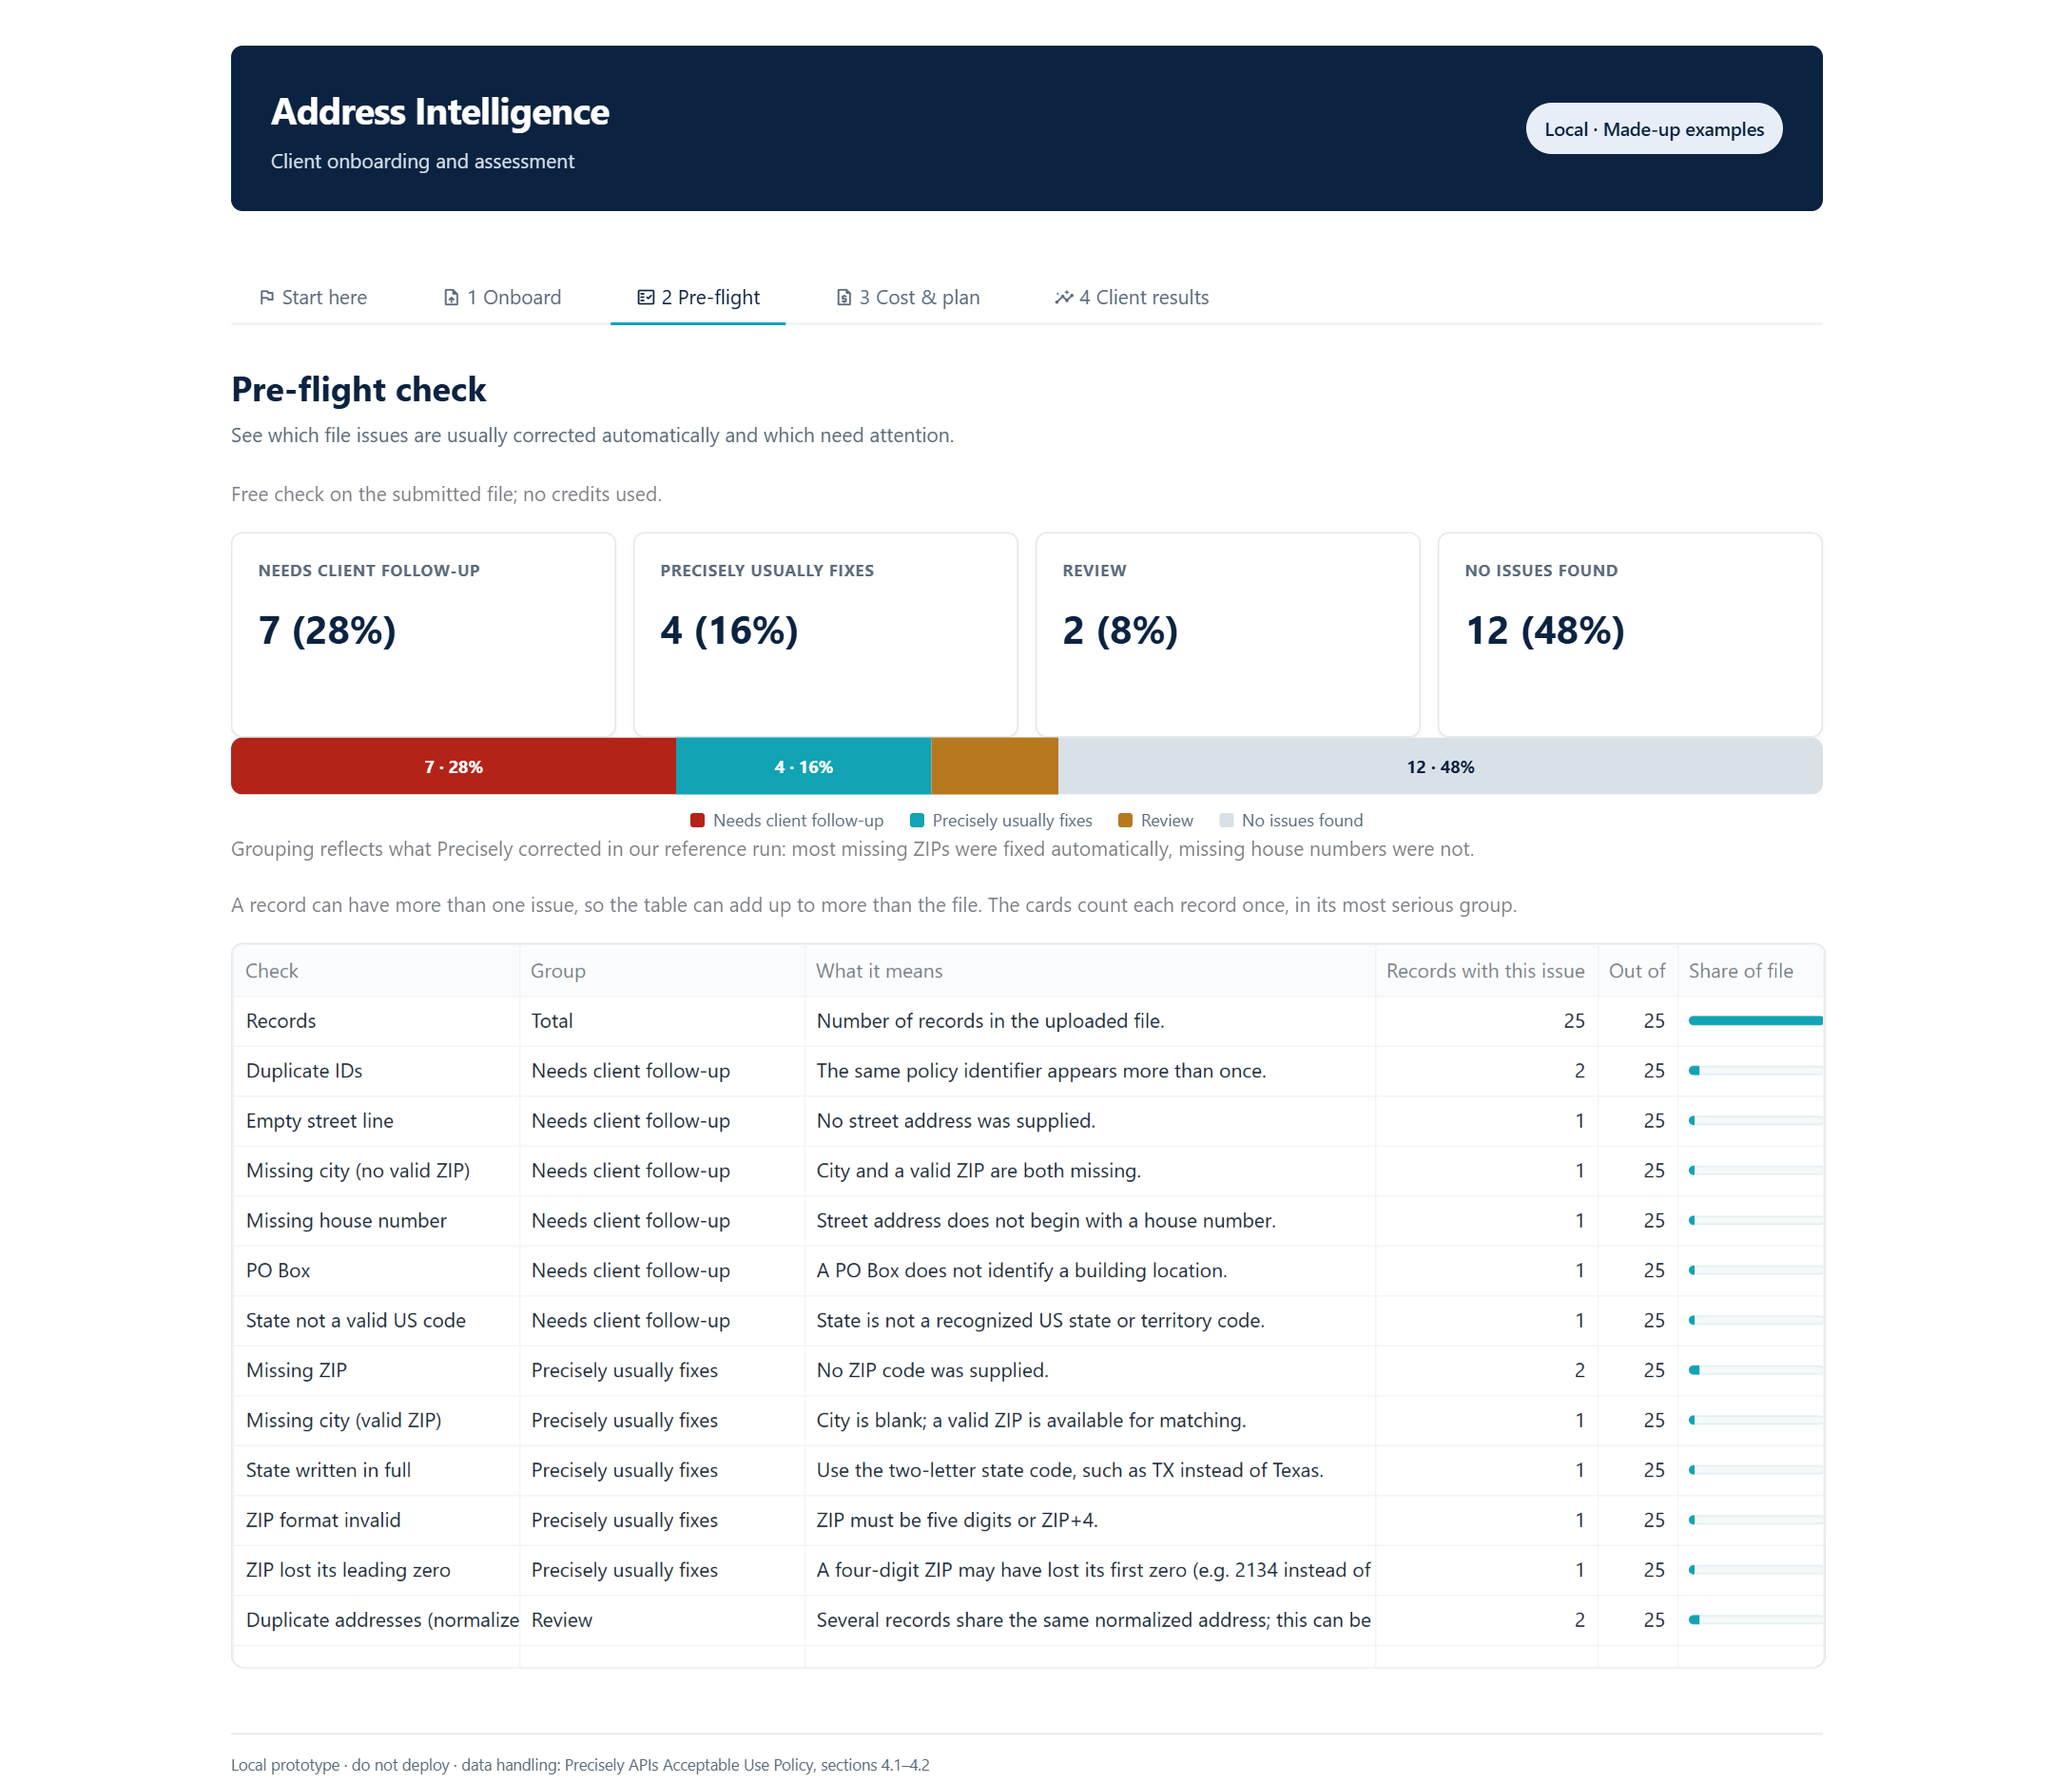
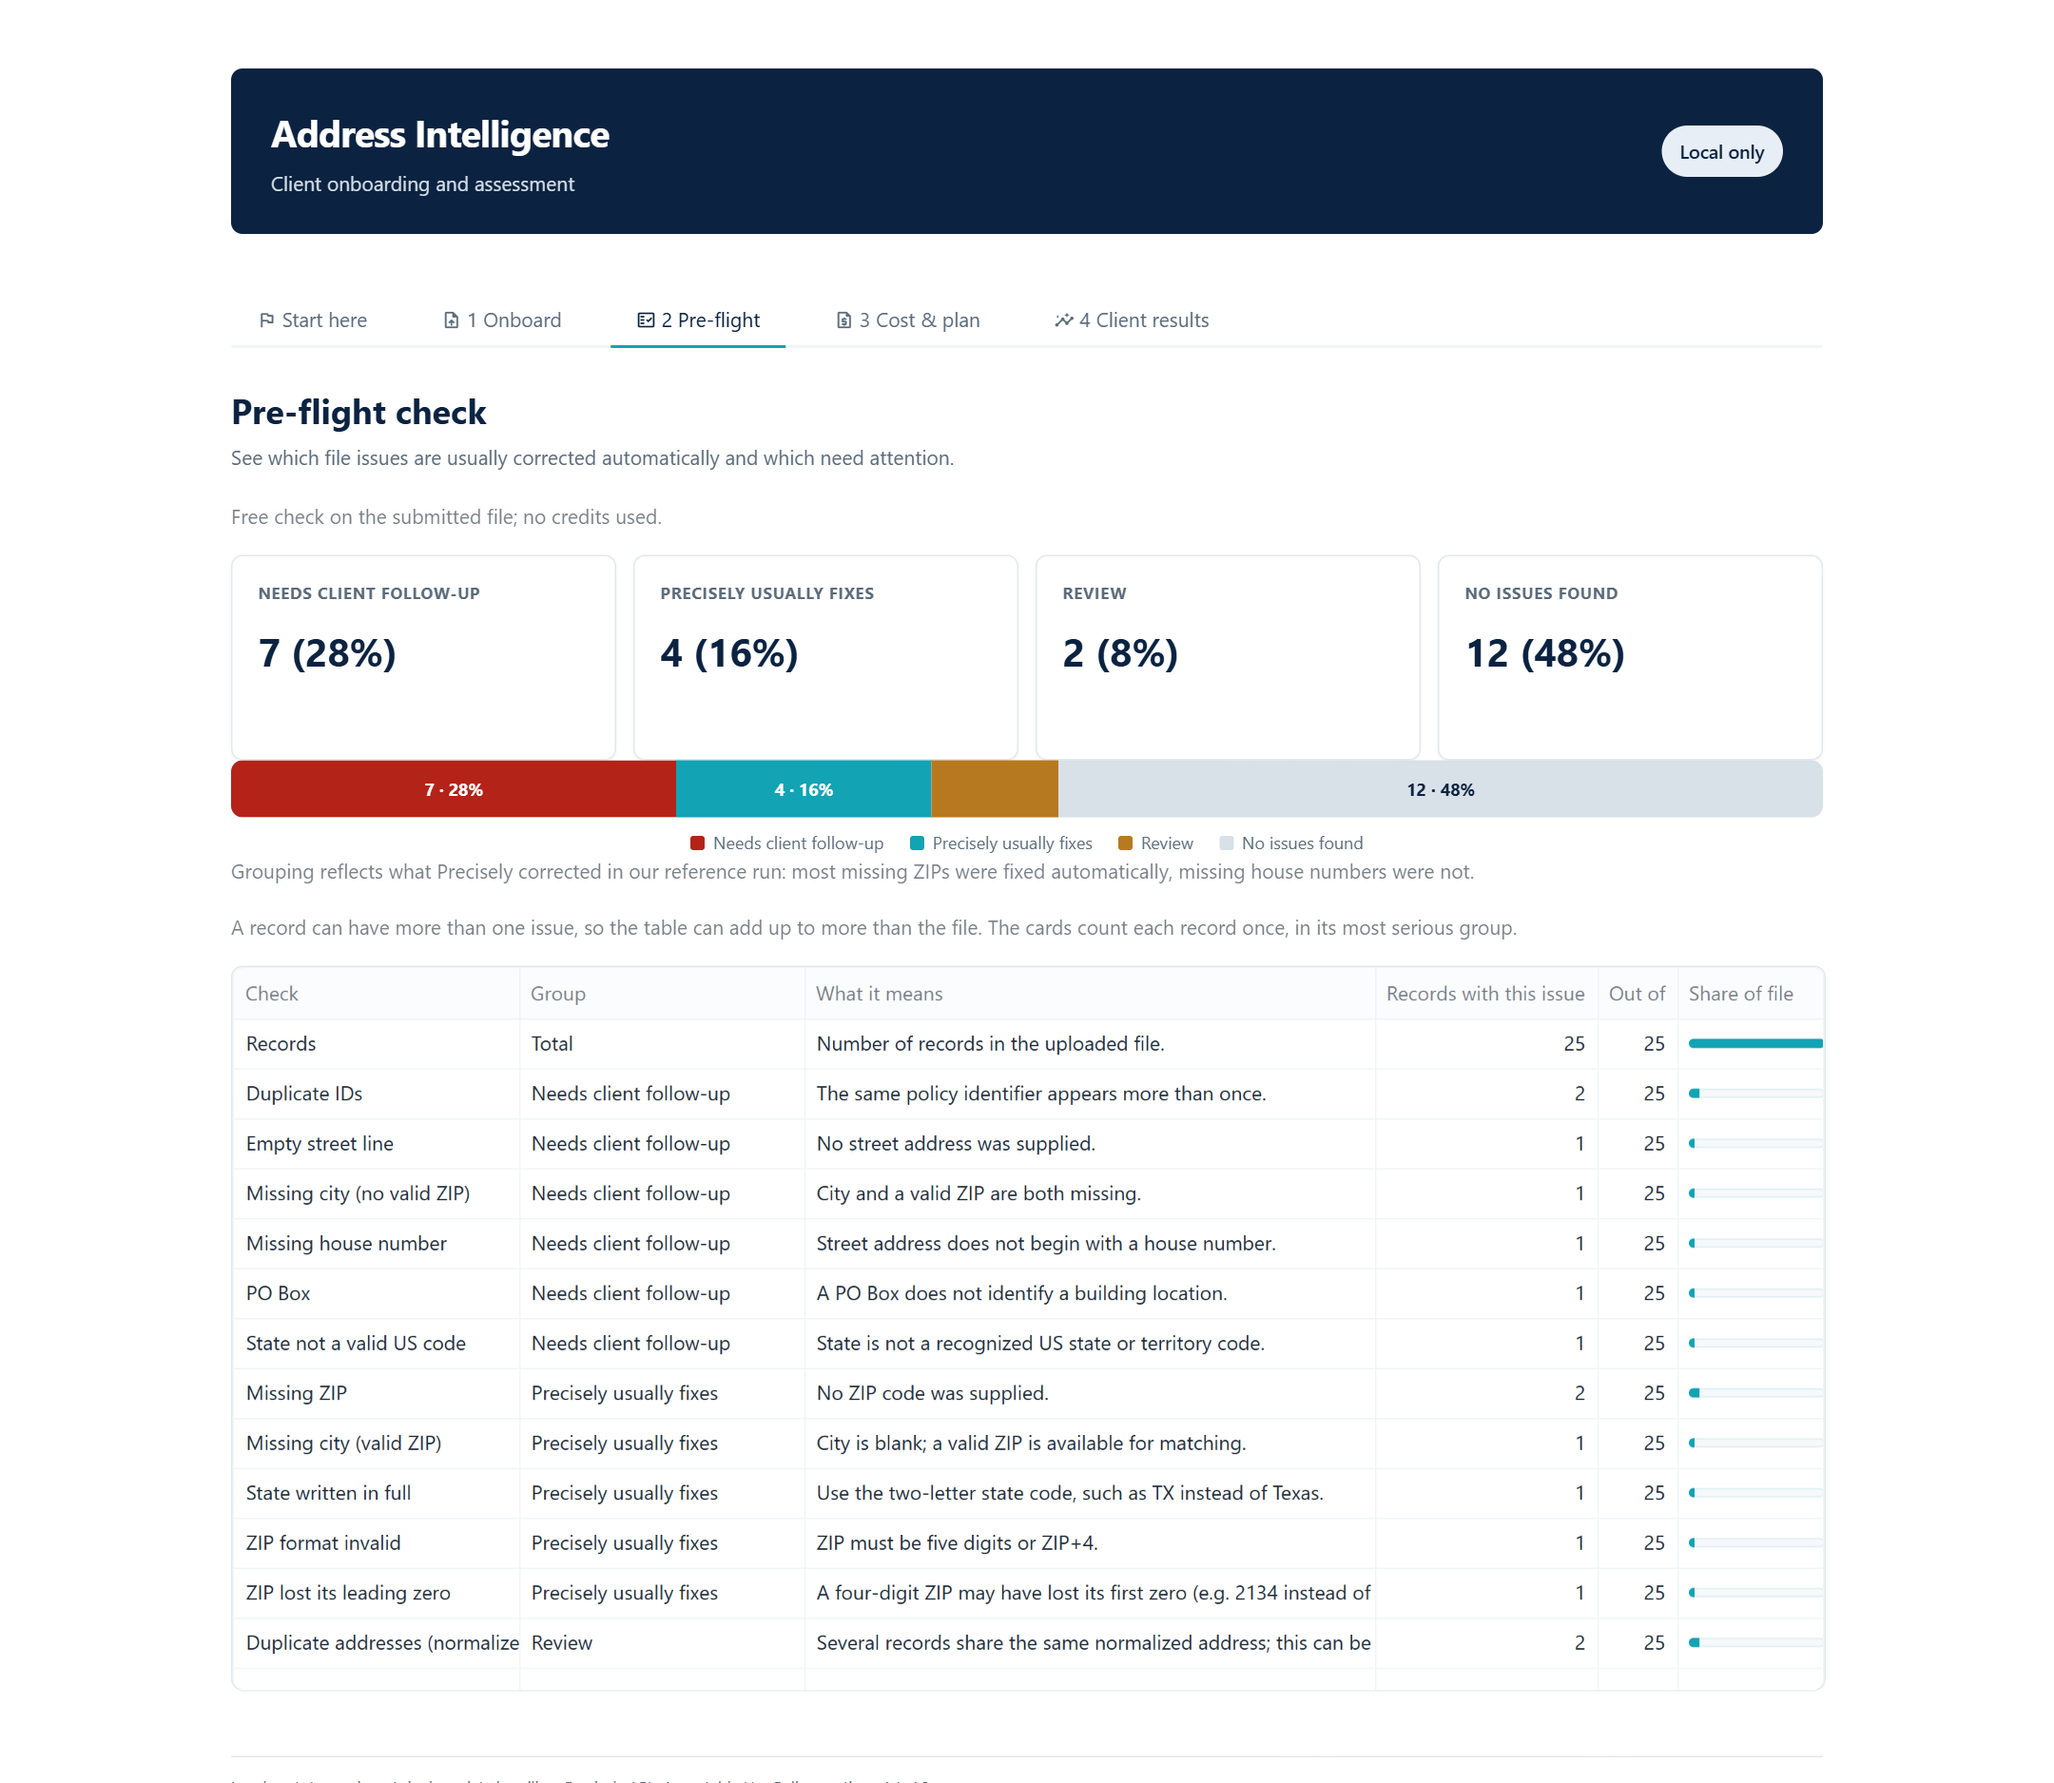
fix: keep the Client results tab when switching data mode; header shows Local only

diff --git a/app/ui.py b/app/ui.py
@@ -86,14 +86,11 @@ def real_mode_compliance_css(real_mode: bool) -> str:
 def apply_styles(*, real_mode: bool = False) -> None:
     """Apply the shared visual system, adding stricter table controls in real mode."""
     st.markdown(_GLOBAL_CSS, unsafe_allow_html=True)
-    compliance_css = real_mode_compliance_css(real_mode)
-    if compliance_css:
-        st.markdown(compliance_css, unsafe_allow_html=True)
+    compliance_css = real_mode_compliance_css(real_mode) or "<style></style>"
+    st.markdown(compliance_css, unsafe_allow_html=True)
 
 
-def render_header(*, real_mode: bool) -> None:
-    mode = "Local · Real results" if real_mode else "Local · Made-up examples"
-    mode_class = "real" if real_mode else "sample"
+def render_header() -> None:
     st.markdown(
         f"""
         <div class="ai-header">
@@ -101,7 +98,7 @@ def render_header(*, real_mode: bool) -> None:
             <div class="ai-brand">Address Intelligence</div>
             <div class="ai-subtitle">Client onboarding and assessment</div>
           </div>
-          <div class="ai-mode ai-mode-{mode_class}">{escape(mode)}</div>
+          <div class="ai-mode">{escape("Local only")}</div>
         </div>
         """,
         unsafe_allow_html=True,
@@ -118,10 +115,8 @@ def render_header(*, real_mode: bool) -> None:
         .ai-subtitle {{ margin-top:4px; color:#D5DFEA; font-size:14px; }}
         .ai-mode {{
           border-radius:999px; padding:8px 13px; font-weight:600; font-size:13px;
-          white-space:nowrap; color:{COLORS["navy"]};
+          white-space:nowrap; color:{COLORS["navy"]}; background:#E7EEF5;
         }}
-        .ai-mode-sample {{ background:#E7EEF5; }}
-        .ai-mode-real {{ background:#FFF0CC; color:#67420C; }}
         .ai-tab-title {{ margin:8px 0 4px; font-size:24px; color:{COLORS["navy"]}; font-weight:700; }}
         .ai-purpose {{ margin:0 0 18px; color:{COLORS["muted"]}; font-size:14px; }}
         .ai-journey-grid {{ display:grid; grid-template-columns:repeat(4,minmax(0,1fr)); gap:12px; }}

diff --git a/tests/unit/test_onboarding.py b/tests/unit/test_onboarding.py
@@ -863,6 +863,43 @@ def test_visual_tokens_and_real_mode_compliance_css():
     assert app_ui.FONT_STACK.split(",")[0].strip('"') in config
 
 
+def test_apply_styles_renders_same_markdown_count_in_each_mode(monkeypatch):
+    markdown_calls = []
+    monkeypatch.setattr(
+        app_ui.st,
+        "markdown",
+        lambda body, **kwargs: markdown_calls.append(body),
+    )
+
+    app_ui.apply_styles(real_mode=True)
+    real_mode_count = len(markdown_calls)
+    real_mode_compliance = markdown_calls[-1]
+
+    markdown_calls.clear()
+    app_ui.apply_styles(real_mode=False)
+
+    assert len(markdown_calls) == real_mode_count
+    assert real_mode_compliance == app_ui.real_mode_compliance_css(True)
+    assert markdown_calls[-1] == "<style></style>"
+
+
+def test_header_pill_is_neutral_and_mode_independent(monkeypatch):
+    markdown_calls = []
+    monkeypatch.setattr(
+        app_ui.st,
+        "markdown",
+        lambda body, **kwargs: markdown_calls.append(body),
+    )
+
+    app_ui.render_header()
+
+    header_html = markdown_calls[0]
+    assert '<div class="ai-mode">Local only</div>' in header_html
+    assert "Made-up examples" not in header_html
+    assert "Real results" not in header_html
+    assert "ai-mode-real" not in markdown_calls[1]
+
+
 def test_demo_banner_is_rendered_after_measured_kpis():
     source = (ROOT / "app" / "streamlit_app.py").read_text(encoding="utf-8")
     results_tab = source[source.index("with results_tab:"):]

diff --git a/app/streamlit_app.py b/app/streamlit_app.py
@@ -335,7 +335,7 @@ if "results_mode" not in st.session_state:
     st.session_state.results_mode = "Made-up examples (safe to share)"
 real_mode = st.session_state.results_mode == "Real results on this computer"
 app_ui.apply_styles(real_mode=real_mode)
-app_ui.render_header(real_mode=real_mode)
+app_ui.render_header()
 
 start_tab, onboard_tab, preflight_tab, cost_tab, results_tab = st.tabs(
     [
